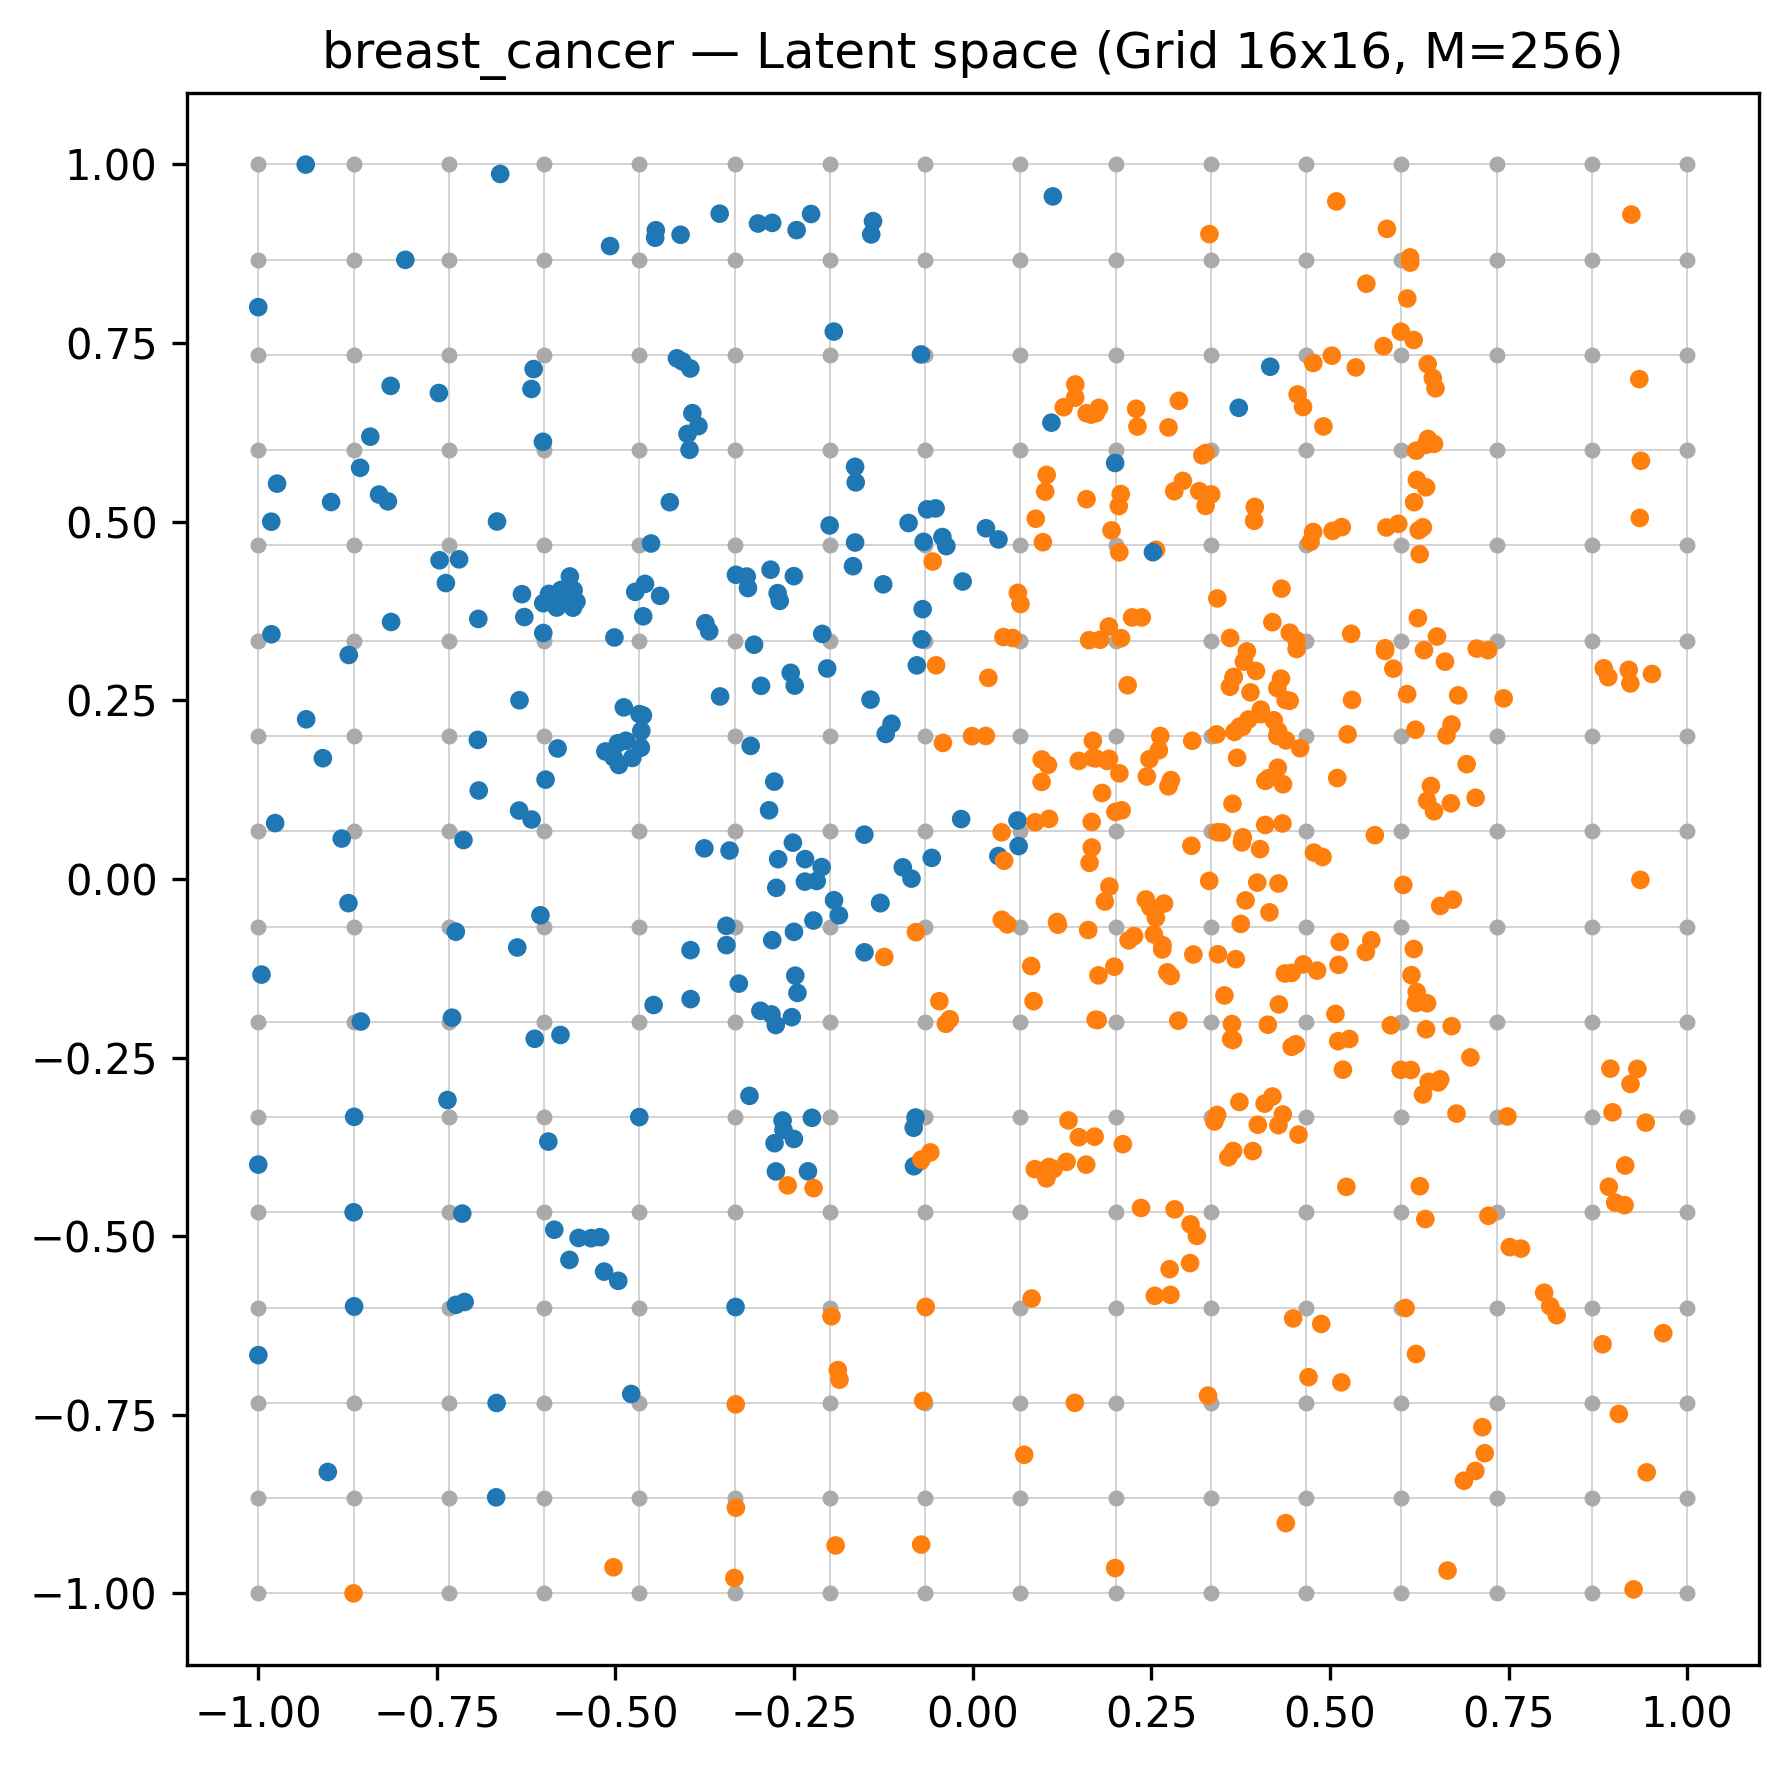
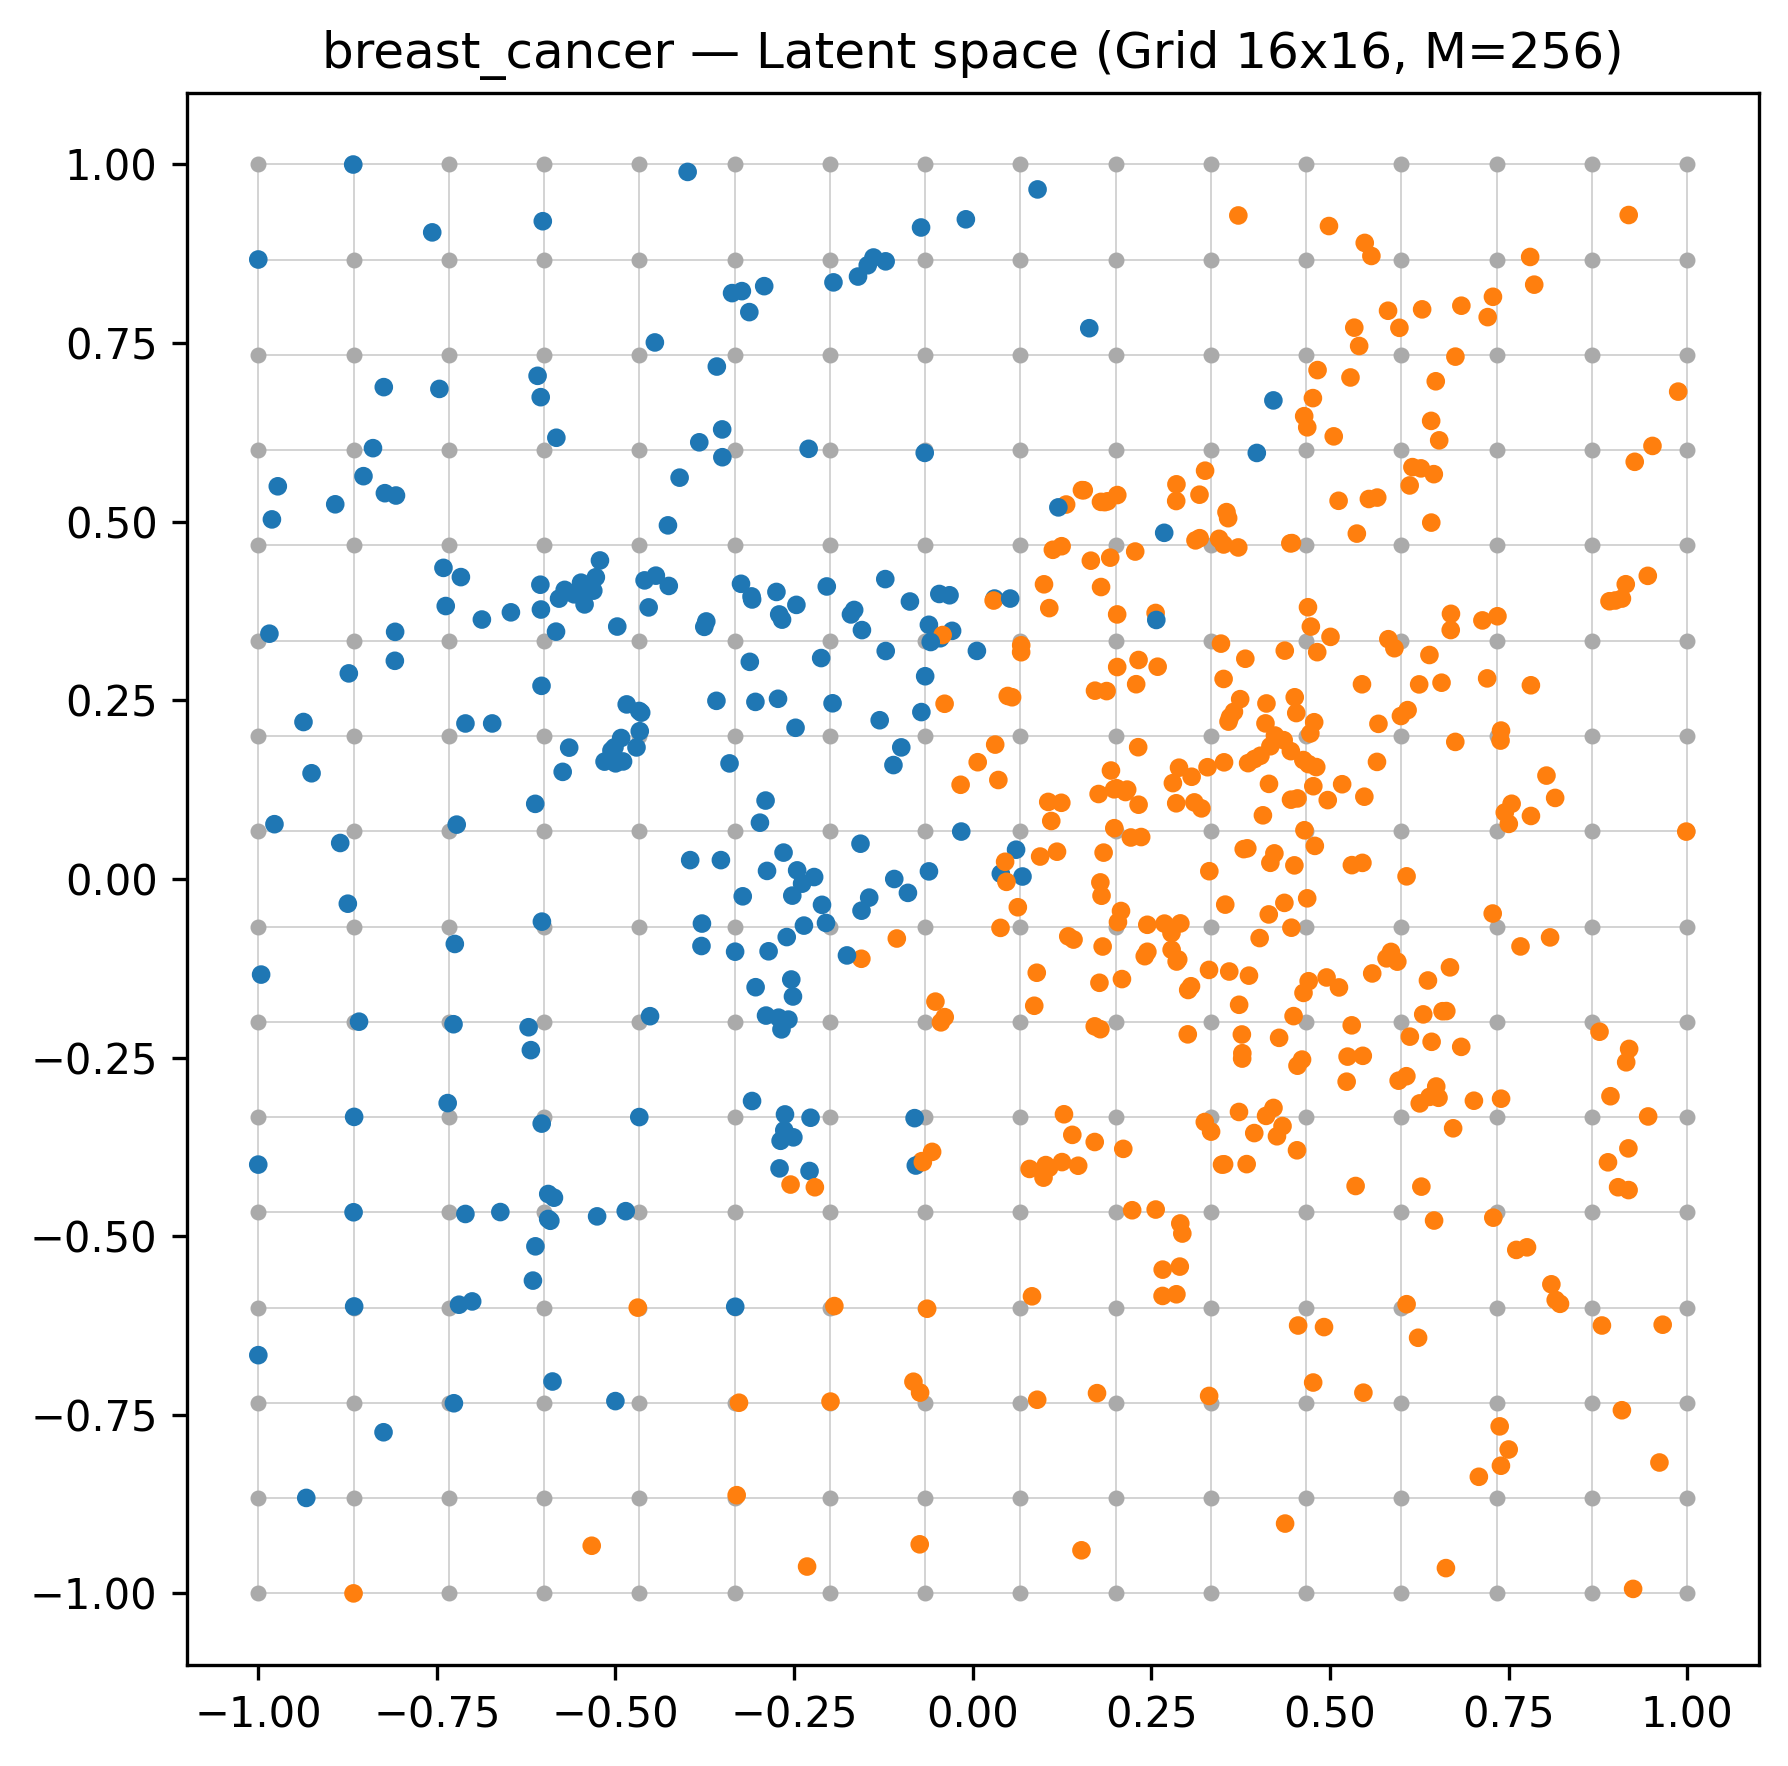
Fix pca_scale to 2.0 and update best hyperparameters

diff --git a/experiments/example.py b/experiments/example.py
@@ -14,12 +14,12 @@ from somolp import SOMOLP
 
 M_SIDE = 16
 
-# Best hyperparameters found by Optuna ((TW+CN)/2, k=5, m=16*16, StandardScaler)
+# Best hyperparameters found by Optuna ((TW+CN)/2, k=5, m=16*16, StandardScaler, pca_scale=2.0)
 DATASETS = [
-    ("iris",           load_iris,           dict(gamma=67.26,  lam=1.165,  pca_scale=1.86)),
-    ("wine",           load_wine,           dict(gamma=798.7,  lam=17.23,  pca_scale=0.12)),
-    ("breast_cancer",  load_breast_cancer,  dict(gamma=897.9,  lam=14.29,  pca_scale=2.16)),
-    ("digits",         load_digits,         dict(gamma=0.036,  lam=1.717,  pca_scale=2.23)),
+    ("iris",           load_iris,           dict(gamma=51.94,  lam=1.32)),
+    ("wine",           load_wine,           dict(gamma=961.4,  lam=21.14)),
+    ("breast_cancer",  load_breast_cancer,  dict(gamma=807.2,  lam=13.49)),
+    ("digits",         load_digits,         dict(gamma=5.53,   lam=2.79)),
 ]
 
 
@@ -40,7 +40,7 @@ def run(name, loader, params):
 
     model = SOMOLP(
         R, gamma=params["gamma"], lam=params["lam"],
-        max_iters=1000, tol=1e-4, pca_scale=params["pca_scale"],
+        max_iters=1000, tol=1e-4,
     ).fit(X)
     print(f"[{name} Grid {M_SIDE}x{M_SIDE}] n_iter={model.n_iter}  obj={model.history[-1]:.6f}")
 

diff --git a/experiments/optuna_hyperparameter_search.py b/experiments/optuna_hyperparameter_search.py
@@ -25,9 +25,8 @@ R = np.column_stack([gx.ravel(), gy.ravel()])
 def objective(trial, X):
     gamma = trial.suggest_float("gamma", 0.001, 1000.0, log=True)
     lam = trial.suggest_float("lam", 0.001, 1000.0, log=True)
-    pca_scale = trial.suggest_float("pca_scale", 0.1, 5.0, log=True)
 
-    model = SOMOLP(R, gamma=gamma, lam=lam, max_iters=1000, tol=1e-4, pca_scale=pca_scale).fit(X)
+    model = SOMOLP(R, gamma=gamma, lam=lam, max_iters=1000, tol=1e-4).fit(X)
     tw = trustworthiness(X, model.V, n_neighbors=5)
     cn = trustworthiness(model.V, X, n_neighbors=5)
     return (tw + cn) / 2
